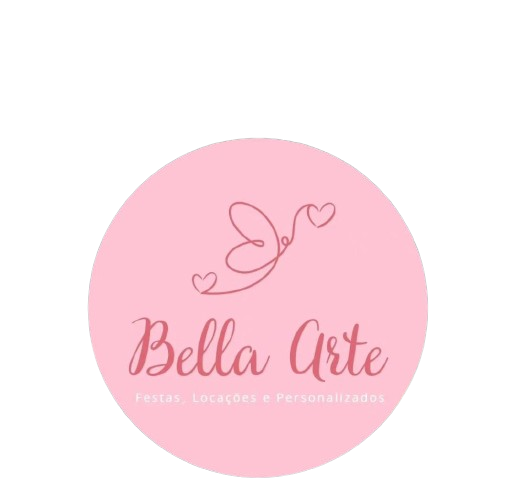
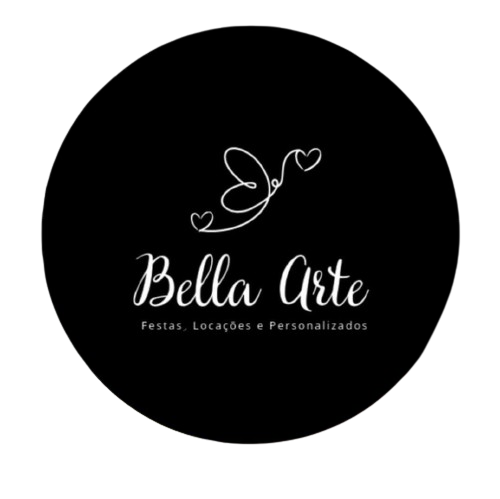
alterações para ser enviada para avaliação

diff --git a/style.css b/style.css
@@ -13,7 +13,7 @@ body {
 
 :root {
   --text-color: white;
-  --bg-url: url(./assets/bg-mobile.jpg);
+  --bg-url: url(./assets/bella-mobile.jpg);
   --stroke-color: rgba(255, 255, 255, 0.5);
   --surface-color: rgba(255, 255, 255, 0.1);
   --surface-color-hover: rgba(0, 0, 0, 0.02);
@@ -23,7 +23,7 @@ body {
 
 .light {
   --text-color: black;
-  --bg-url: url(./assets/bg-mobile-light.jpg);
+  --bg-url: url(./assets/bella-mobile-light.jpg);
   --stroke-color: rgba(0, 0, 0, 0.5);
   --surface-color: rgba(0, 0, 0, 0.05);
   --surface-color-hover: rgba(0, 0, 0, 0.02);
@@ -55,7 +55,7 @@ body * {
 }
 
 #profile img {
-  width: 112px;
+  width: 290px;
 }
 
 #profile p {
@@ -74,8 +74,7 @@ body * {
 }
 
 .light #switch button {
-  right: 0;
-  left: initial;
+  animation: slide-in 0.2s forwards;
 }
 
 #switch button {
@@ -90,6 +89,12 @@ body * {
   left: 0;
   z-index: 1;
   transform: translateY(-50%);
+
+  animation: slide-back 0.2s;
+}
+
+#switch button:hover {
+  outline: 8px solid var(--highlight-color);
 }
 
 #switch span {
@@ -174,9 +179,28 @@ footer {
 
 @media (min-width: 700px) {
   :root {
-    --bg-url: url(./assets/bg-desktop.png);
+    --bg-url: url(./assets/bella-mobile.jpg);
   }
   .light {
-    --bg-url: url(./assets/bg-desktop-light.png);
+    --bg-url: url(./assets/bella-mobile-light.jpg);
+  }
+}
+
+/* animation */
+@keyframes slide-in {
+  from {
+    left: 0;
+  }
+  to {
+    left: 50%;
+  }
+}
+
+@keyframes slide-back {
+  from {
+    left: 50%;
+  }
+  to {
+    left: 0;
   }
 }

diff --git a/script.js b/script.js
@@ -14,7 +14,7 @@ function togglemode() {
 
   // substituir a img
   if (html.classList.contains("light")) {
-    img.setAttribute("src", "./assets/avatar-light.png")
+    img.setAttribute("src", "./assets/bella-light.png")
   } else {
     img.setAttribute("src", "./assets/Bella.png")
   }

diff --git a/index.html b/index.html
@@ -61,9 +61,7 @@
           <ion-icon name="logo-whatsapp"></ion-icon>
         </a>
       </div>
-      <footer>
-        Feito com <ion-icon name="heart-outline"></ion-icon> por Emerson.
-      </footer>
+      <footer>Feito com ❤ por Stobbe.</footer>
     </div>
 
     <script
